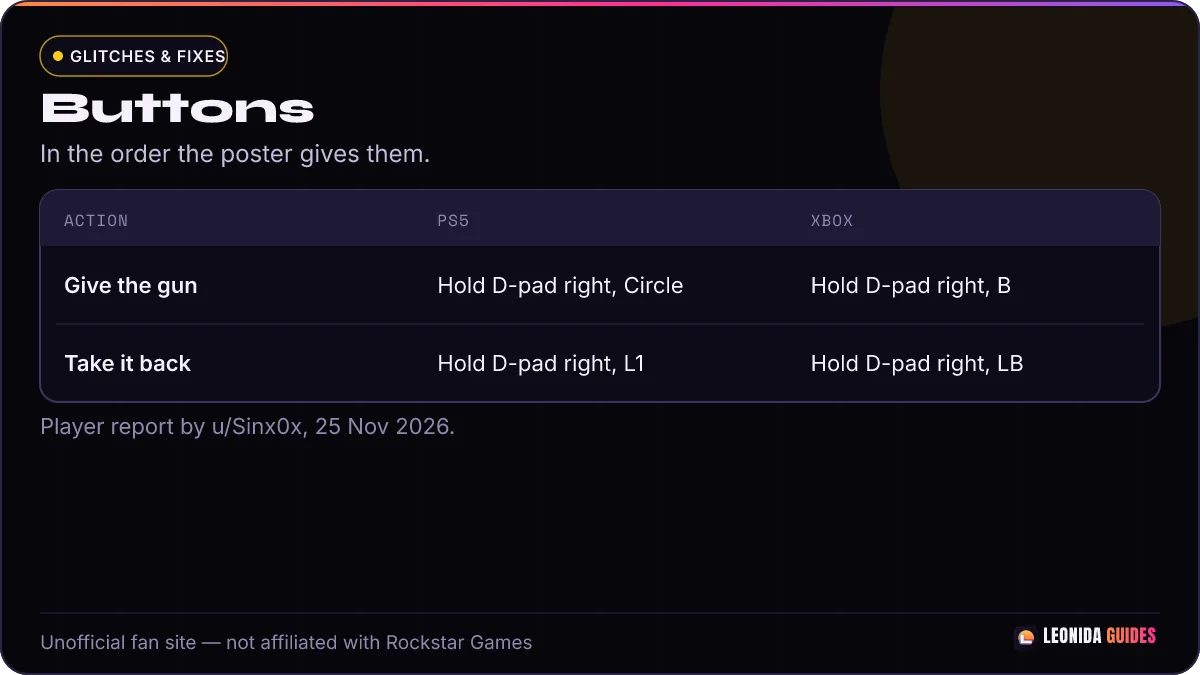
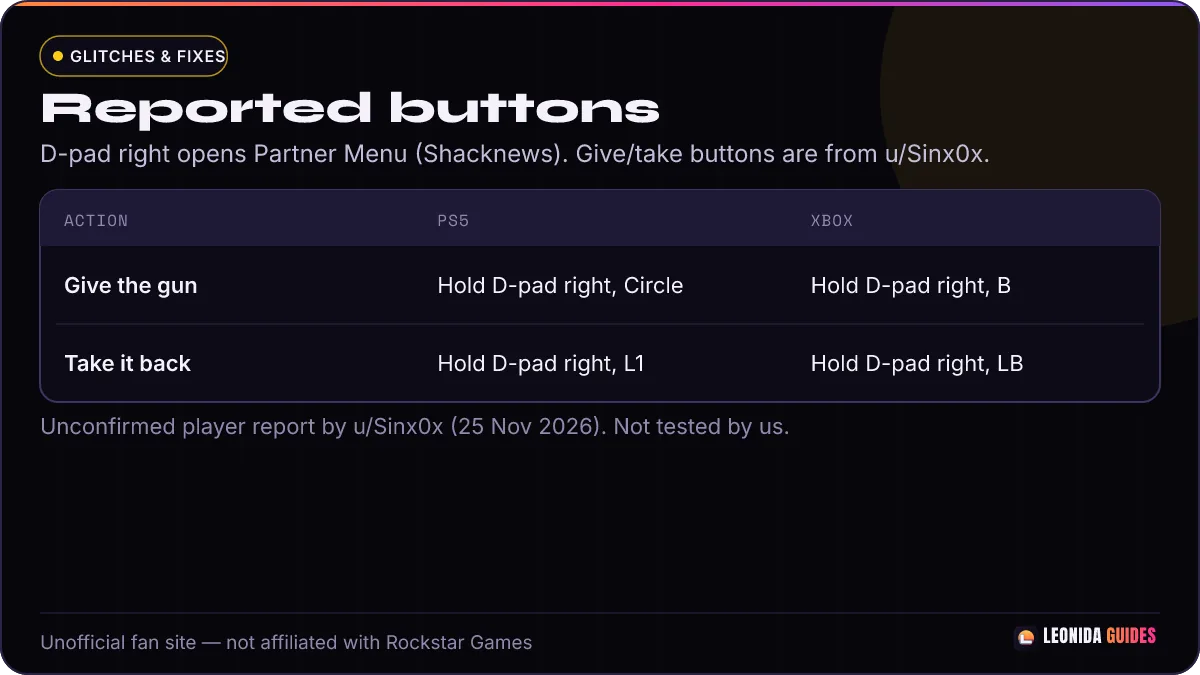
content: auto-publish 2026-11-25T20:44:59.759Z

Changed region(s): [[0.0308, 0.1244, 0.555, 0.1867], [0.0308, 0.2178, 0.8325, 0.2489], [0.0308, 0.6222, 0.6475, 0.6533]]

diff --git a/content/gta-6-ammo-refill-glitch.md b/content/gta-6-ammo-refill-glitch.md
@@ -5,9 +5,26 @@ title_alts:
   - "GTA 6 Out of Ammo? Quick Refill Trick for PS5 and Xbox"
 slug: gta-6-ammo-refill-glitch
 category: glitches
-description: "GTA 6 ammo glitch: hand your gun to your partner and take it back to refill the magazine. Buttons for PS5 and Xbox, limits and status."
+description: "GTA 6 ammo refill trick explained: one player report, source disagreements on handing over guns, and confirmed ways to get ammo on PS5 and Xbox."
 sources:
   - https://www.reddit.com/r/gtaglitches/comments/1y4y7gj/gta_6_infiniteish_ammo_glitch/
+  - https://www.shacknews.com/article/151396/gta6-ps5-controls
+  - https://www.shacknews.com/article/151419/gta6-xbox-controls
+  - https://www.gamesradar.com/games/grand-theft-auto/gta-6-switch-characters-command/
+  - https://www.powerpyx.com/gta-6-how-to-hand-items-to-your-partner/
+  - https://gta6walk.com/guides/how-to-hand-items-to-your-partner/
+  - https://gta.tech4gamers.com/gta-6/guides/shared-weapons-jason-lucia/
+  - https://www.invenglobal.com/articles/28810/13-tips-i-wish-i-knew-before-starting-gta-6
+  - https://www.gamesradar.com/games/grand-theft-auto/gta-6-manage-loadout/
+  - https://www.gamesradar.com/games/grand-theft-auto/gta-6-weapon-ownership-explained/
+  - https://www.gamespot.com/articles/how-to-increase-your-inventory-in-gta-6/
+  - https://www.powerpyx.com/gta-6-tips-tricks/
+  - https://www.dexerto.com/wikis/gta-6/equipment/ammo-pack/
+  - https://www.dexerto.com/wikis/gta-6/equipment/ammo/
+  - https://www.gamesradar.com/games/grand-theft-auto/gta-6-weapons/
+  - https://www.gamespot.com/articles/gta-6-all-the-secret-controls-and-gameplay-features-you-might-have-missed/
+  - https://www.gamespot.com/articles/all-gta-6-cheats-and-how-to-unlock-them/
+  - https://www.pcgamer.com/games/grand-theft-auto/gta-6-cheats-list/
 updated: 2026-11-25
 published: 2026-11-25
 status: live
@@ -18,69 +35,125 @@ qa: live-review
 
 # GTA 6 Ammo Glitch: Refill Your Magazine With Your Partner
 
-> - **Quick answer:** give the gun you are low on to your partner, then take it back. A player reports the **magazine comes back full** (u/Sinx0x on r/gtaglitches).
-> - **Limit:** the same player says it refills **only the current magazine**, not your spare ammo. It works best with big-magazine guns like LMGs. Grenade launchers cannot be handed over.
-> - **Status: unconfirmed (checked 2026-11-25).** One player report from 25 Nov. Not tested by us.
+> - **Quick answer — Unconfirmed: one player report so far.** One player ([u/Sinx0x on r/gtaglitches](https://www.reddit.com/r/gtaglitches/comments/1y4y7gj/gta_6_infiniteish_ammo_glitch/)) claims that handing a gun to your partner and taking it back refills the **loaded magazine**, not spare ammo. No major gaming site or Rockstar confirms this glitch.
+> - **Sources disagree on handing over guns:** [PowerPyx](https://www.powerpyx.com/gta-6-how-to-hand-items-to-your-partner/) says only **longarms** (assault rifles, shotguns) and stash bags can be handed over, [GamesRadar+](https://www.gamesradar.com/games/grand-theft-auto/gta-6-switch-characters-command/) says weapons can be handed over, and [Tech4Gamers](https://gta.tech4gamers.com/gta-6/guides/shared-weapons-jason-lucia/) says **no weapons** can be handed over at all.
+> - **Confirmed ways to get ammo:** buy ammo or a **$950 Ammo Pack** at **Ammu-Nation** ([PowerPyx](https://www.powerpyx.com/gta-6-tips-tricks/), [Dexerto](https://www.dexerto.com/wikis/gta-6/equipment/ammo-pack/)), check your **Personal Vehicle trunk**, or switch characters since Jason and Lucia hold separate ammo ([Inven Global](https://www.invenglobal.com/articles/28810/13-tips-i-wish-i-knew-before-starting-gta-6)).
 
-**Words used on this page.** *Magazine* (or mag) is the ammo loaded in the gun right now. *Spare ammo* is the extra ammo you carry. *Partner* is the other main character, Jason or Lucia, when they are with you. *LMG* is a light machine gun, a gun with a very big magazine.
+> **Unconfirmed: one player report so far.** This ammo trick comes from a single Reddit thread ([u/Sinx0x on r/gtaglitches](https://www.reddit.com/r/gtaglitches/comments/1y4y7gj/gta_6_infiniteish_ammo_glitch/)) posted on 25 Nov 2026. No major outlet or Rockstar has confirmed it, and **not tested by us**.
 
-*Story mode, PS5 and Xbox. No mods or PC tools. This is a player tip, not a confirmed fact.*
+**Words used on this page.** *Magazine* (or mag) is the ammo loaded inside the gun right now. *Spare ammo* is the extra ammo you carry in your pockets. *Partner* is the other main character, Jason or Lucia, when they are with you. *Longarm* (or long gun) is a big gun like an assault rifle, shotgun, or LMG. *LMG* is a light machine gun, a heavy gun with a very big magazine. *Sidearm* is a small gun like a pistol or revolver.
 
-## What you need
+*Story mode, PS5 and Xbox. No mods or PC tools.*
 
-| What | Detail | Source |
+## What you need (and where sources disagree)
+
+| What | What sources say | Source |
 |---|---|---|
-| Your partner next to you | The trick needs them, even though it is a solo glitch | u/Sinx0x |
-| A gun you can hand over | Grenade launchers do not work | u/Sinx0x |
-| Time | Two quick menu actions: give, then take back | u/Sinx0x |
+| Your partner next to you | Free switching and full partner commands unlock in Chapter 2 | [GamesRadar+](https://www.gamesradar.com/games/grand-theft-auto/gta-6-switch-characters-command/) |
+| Partner Menu button | **Hold right on the D-pad** opens the Partner Menu on PS5 and Xbox | [Shacknews PS5](https://www.shacknews.com/article/151396/gta6-ps5-controls), [Shacknews Xbox](https://www.shacknews.com/article/151419/gta6-xbox-controls) |
+| A gun you can hand over | **Disputed** — see the disagreement below; pistols, SMGs, and grenade launchers do not work | [PowerPyx](https://www.powerpyx.com/gta-6-how-to-hand-items-to-your-partner/), [Tech4Gamers](https://gta.tech4gamers.com/gta-6/guides/shared-weapons-jason-lucia/), [u/Sinx0x](https://www.reddit.com/r/gtaglitches/comments/1y4y7gj/gta_6_infiniteish_ammo_glitch/) |
+| Give and take-back inputs | **Circle / B** to give and **L1 / LB** to take back come from one Reddit post (guide sites also list Circle / B to hand over) | [u/Sinx0x](https://www.reddit.com/r/gtaglitches/comments/1y4y7gj/gta_6_infiniteish_ammo_glitch/), [gta6walk](https://gta6walk.com/guides/how-to-hand-items-to-your-partner/) |
 
-![Our diagram of the refill loop: give the gun, take it back, full magazine. Not a game screenshot.](TODO: image:gta-6-ammo-refill-glitch-step-1 — diagram, our own art: three step cards, give gun, take it back, magazine full)
-*Caption: Diagram. Give the gun to your partner, take it back, and the magazine is full.*
+### Which guns can actually be handed over?
 
-## How to do the ammo glitch
+Sources do not agree on whether you can hand a gun to your partner at all, or which guns count:
 
-1. Stand next to your partner.
-2. Pick the gun that is low on ammo.
-3. **Hold right on the D-pad**, then press **Circle** (PS5) or **B** (Xbox) to give the gun to your partner.
-4. **Hold right on the D-pad again**, then press **L1** (PS5) or **LB** (Xbox) to take it back.
-5. Check your ammo. The poster says the gun comes back with a **full magazine**.
+- **[GamesRadar+](https://www.gamesradar.com/games/grand-theft-auto/gta-6-switch-characters-command/)** says you can hold right on the D-pad during a robbery to hand over weapons or stash bags to your partner, without naming a weapon-type limit.
+- **[PowerPyx](https://www.powerpyx.com/gta-6-how-to-hand-items-to-your-partner/)** (echoed by guide site [gta6walk](https://gta6walk.com/guides/how-to-hand-items-to-your-partner/)) says you can only hand over **stash bags** and **longarms** (such as assault rifles and shotguns). **Pistols, revolvers, SMGs, and equipment cannot be handed over.**
+- **[Tech4Gamers](https://gta.tech4gamers.com/gta-6/guides/shared-weapons-jason-lucia/)** disagrees with both and says **weapons and equipment cannot be handed over at all** — only stash bags can pass between Jason and Lucia.
+- **[u/Sinx0x](https://www.reddit.com/r/gtaglitches/comments/1y4y7gj/gta_6_infiniteish_ammo_glitch/)** says they used an **LMG** (a heavy longarm) for the refill trick, and added in comments that **grenade launchers cannot be handed over**.
 
-The buttons are in the order the poster gives them. If your menu shows other options, pick the ones for giving and taking a weapon.
+![Our diagram of the reported GTA 6 ammo refill trick: give a long gun to your partner, take it back, and the poster says the magazine refills. Unconfirmed. Not a game screenshot.](TODO: image:gta-6-ammo-refill-glitch-step-1 — diagram, our own art: three step cards, reported refill loop)
+*Caption: Diagram. What the original poster says happens when you hand over a long gun and take it back. Unconfirmed.*
 
-![Our diagram of the buttons: D-pad right, then Circle or B to give, then D-pad right and L1 or LB to take back. Not a game screenshot.](TODO: image:gta-6-ammo-refill-glitch-step-2 — diagram, our own art: compare table of PS5 and Xbox buttons for give and take back)
-*Caption: Diagram. The give and take-back buttons on PS5 and Xbox.*
+## What the original poster says they did
 
-## Limits
+These steps are **what the original poster says they did** on [r/gtaglitches](https://www.reddit.com/r/gtaglitches/comments/1y4y7gj/gta_6_infiniteish_ammo_glitch/). Only the **Hold right on the D-pad** Partner Menu input is backed by major outlets ([Shacknews](https://www.shacknews.com/article/151396/gta6-ps5-controls), [GamesRadar+](https://www.gamesradar.com/games/grand-theft-auto/gta-6-switch-characters-command/)). The give and take-back button steps below come from u/Sinx0x's report (with [gta6walk](https://gta6walk.com/guides/how-to-hand-items-to-your-partner/) also listing Circle / B for Hand Over) and are **not tested by us**.
 
-- **Only the magazine.** In a follow-up comment the poster says it **does not restore spare ammo**, only the loaded magazine.
-- **Use big magazines.** The poster says this makes LMGs the best choice. A silenced LMG is the example they give.
-- **Explosive weapons.** The poster first said these refill too, then said grenade launchers do not work, because you cannot give them to your partner.
+1. Unlock free character switching in Chapter 2 ([GamesRadar+](https://www.gamesradar.com/games/grand-theft-auto/gta-6-switch-characters-command/)).
+2. Stand next to your partner.
+3. Equip a **longarm** that is low on ammo (PowerPyx says small guns like pistols and SMGs will not hand over, and Tech4Gamers says no weapons hand over at all).
+4. **Hold right on the D-pad** to open the Partner Menu ([Shacknews](https://www.shacknews.com/article/151396/gta6-ps5-controls)).
+5. Press **Circle** (PS5) or **B** (Xbox) if a give option shows — u/Sinx0x says this gives the gun to your partner.
+6. **Hold right on the D-pad** again to reopen the Partner Menu.
+7. Press **L1** (PS5) or **LB** (Xbox) — u/Sinx0x says this takes the gun back.
+8. Check your ammo counter. If the trick works in your game, the poster says the **loaded magazine** comes back full.
 
-![Our diagram of what works: big-magazine guns yes, spare ammo no, grenade launchers no. Not a game screenshot.](TODO: image:gta-6-ammo-refill-glitch-step-3 — diagram, our own art: three info cards, what refills and what does not)
-*Caption: Diagram. What the trick refills, and what it does not.*
+If your screen shows different prompts in the Partner Menu, follow the on-screen labels for giving and taking back rather than pressing buttons blindly.
+
+![Table of reported buttons for the GTA 6 ammo trick: hold D-pad right for the Partner Menu (Shacknews), then Circle or B to give and D-pad right with L1 or LB to take back (u/Sinx0x).](TODO: image:gta-6-ammo-refill-glitch-step-2 — diagram, our own art: compare table of reported PS5 and Xbox buttons)
+*Caption: Diagram. D-pad right opens the Partner Menu (Shacknews); the give and take-back buttons are from u/Sinx0x's unconfirmed report.*
+
+## Reported limits and caveats
+
+- **Only the magazine (poster's follow-up):** In comments on their [Reddit thread](https://www.reddit.com/r/gtaglitches/comments/1y4y7gj/gta_6_infiniteish_ammo_glitch/), u/Sinx0x says the trick **does not restore spare ammo**, only the bullets loaded in the current magazine.
+- **Big magazines matter:** Because only the magazine refills, u/Sinx0x says it is most useful on guns with huge magazines, such as a silenced LMG.
+- **Many weapons cannot be handed over:** u/Sinx0x corrected their first claim and said **grenade launchers** cannot be handed over. [PowerPyx](https://www.powerpyx.com/gta-6-how-to-hand-items-to-your-partner/) adds that **pistols, revolvers, SMGs, and equipment** cannot be handed over either, and [Tech4Gamers](https://gta.tech4gamers.com/gta-6/guides/shared-weapons-jason-lucia/) says no guns can be handed over.
+- **Not confirmed or tested:** No major outlet has reproduced this glitch, and we have not tested it ourselves.
+
+![Our diagram of reported limits and source disagreements: loaded magazine refills per one player, spare ammo does not, long guns are disputed, and small guns or grenade launchers cannot be handed over. Not a game screenshot.](TODO: image:gta-6-ammo-refill-glitch-step-3 — diagram, our own art: three info cards on limits and source disagreements)
+*Caption: Diagram. Reported limits from u/Sinx0x alongside the source disagreement on which guns can be handed over.*
+
+## How the ammo system works in GTA 6
+
+If you are running out of bullets often, it helps to know how GTA 6 splits weapons and ammo between your two characters:
+
+- **Jason and Lucia have separate ammo pools.** [Inven Global](https://www.invenglobal.com/articles/28810/13-tips-i-wish-i-knew-before-starting-gta-6) reports that when one character buys a gun at Ammu-Nation, both characters unlock a copy of that gun, and [GamesRadar+](https://www.gamesradar.com/games/grand-theft-auto/gta-6-weapon-ownership-explained/) says the same is true for Unique Weapon Variants. However, **ammo, healing items, weapon attachments, and equipped loadouts are kept separately** (Inven Global, GamesRadar+). Swapping to your partner can suddenly leave you low on ammo if you have not stocked them up too.
+- **You carry a strict set of weapons on you.** [GamesRadar+](https://www.gamesradar.com/games/grand-theft-auto/gta-6-manage-loadout/) lists your on-person Weapons slots as **2 sidearms, 2 longarms, 1 melee weapon, 1 explosives slot, 1 equipment slot, and 1 hands slot**. [GameSpot](https://www.gamespot.com/articles/how-to-increase-your-inventory-in-gta-6/) confirms there is **no backpack or inventory upgrade** to carry more.
+- **Owned guns stay safe; picked-up guns can be lost.** [GamesRadar+](https://www.gamesradar.com/games/grand-theft-auto/gta-6-weapon-ownership-explained/) explains that guns you buy at Ammu-Nation, receive in missions, or unlock as Unique Variants can always be recovered from your Personal Vehicle's trunk or an Ammu-Nation weapons locker. Unowned weapons picked up from enemies or the ground are lost if you drop them, get Wasted, or get Busted.
+
+## Confirmed ways to get ammo
+
+Instead of relying on an unverified glitch, these confirmed methods keep your guns fed:
+
+| Method | How it works | Source |
+|---|---|---|
+| Buy ammo at Ammu-Nation | Visit any gun store to buy firearm ammo and explosive charges; **Expanded Inventory** stores carry the widest range (store tiers: Everyday, Premium, Hunting, Pawn) | [PowerPyx](https://www.powerpyx.com/gta-6-tips-tricks/), [GamesRadar+](https://www.gamesradar.com/games/grand-theft-auto/gta-6-weapons/) |
+| Buy an **Ammo Pack ($950)** | Refills all standard firearm ammo types (pistol, revolver, SMG, shotgun, assault rifle, tactical rifle, small-game rifle, sniper rifle, and machine gun); listed at Big Shots and Chuck's Tackle & Shot | [Dexerto Ammo Pack](https://www.dexerto.com/wikis/gta-6/equipment/ammo-pack/), [Dexerto Ammo](https://www.dexerto.com/wikis/gta-6/equipment/ammo/) |
+| Check your **car trunk** | Walk to the back of your Personal Vehicle, press **Triangle / Y** to open the trunk, and hold **L1 / LB** to swap weapons or grab stored gear (see [GTA 6 car trunk storage](/cars/gta-6-car-trunk-storage/)) | [GamesRadar+](https://www.gamesradar.com/games/grand-theft-auto/gta-6-manage-loadout/), [GameSpot](https://www.gamespot.com/articles/how-to-increase-your-inventory-in-gta-6/) |
+| Empty mid-fight options | Press **Square (PS5) / X (Xbox)** to pistol-whip with an empty gun, or tap **Triangle / Y** while aiming to quick-swap to another weapon | [GameSpot](https://www.gamespot.com/articles/gta-6-all-the-secret-controls-and-gameplay-features-you-might-have-missed/) |
+| Post-story **ammo cheats** | After finishing the main story, shooting-range medal challenges unlock **Max Ammo**, **Infinite Ammo**, and **No Reload** — but cheats **disable saving and trophies/achievements** for that session | [GameSpot](https://www.gamespot.com/articles/all-gta-6-cheats-and-how-to-unlock-them/), [PC Gamer](https://www.pcgamer.com/games/grand-theft-auto/gta-6-cheats-list/) |
+
+## What to do if the glitch does not work
+
+Because only one player has reported this trick and sources disagree on weapon hand-overs, it may not work in your game. Try these steps instead:
+
+- **Make sure partner commands are unlocked and your partner is nearby.** [GamesRadar+](https://www.gamesradar.com/games/grand-theft-auto/gta-6-switch-characters-command/) says free character switching unlocks during **Chapter 2**. If your partner is not next to you, **hold right on the D-pad** and press **Triangle (PS5) / Y (Xbox)** to call them over.
+- **Check what kind of gun you are holding.** If you are holding a pistol, revolver, SMG, or grenade launcher, [PowerPyx](https://www.powerpyx.com/gta-6-how-to-hand-items-to-your-partner/) and [u/Sinx0x](https://www.reddit.com/r/gtaglitches/comments/1y4y7gj/gta_6_infiniteish_ammo_glitch/) say those cannot be handed over. If no gun gives you a hand-over option at all, [Tech4Gamers](https://gta.tech4gamers.com/gta-6/guides/shared-weapons-jason-lucia/) may be right for your version or situation — only stash bags pass across.
+- **Switch to your other character for a shootout.** Since Jason and Lucia keep separate ammo ([Inven Global](https://www.invenglobal.com/articles/28810/13-tips-i-wish-i-knew-before-starting-gta-6)), holding **right on the D-pad** and pressing **R1 (PS5) / RB (Xbox)** lets you switch to the character who still has bullets ([GamesRadar+](https://www.gamesradar.com/games/grand-theft-auto/gta-6-switch-characters-command/)).
+- **Swap guns at your car trunk or visit Ammu-Nation.** Open your Personal Vehicle trunk with **Triangle / Y** and hold **L1 / LB** to switch to a different owned longarm or grab stored gear ([GamesRadar+](https://www.gamesradar.com/games/grand-theft-auto/gta-6-manage-loadout/)), or head to the nearest Ammu-Nation to buy ammo or an Ammo Pack ([PowerPyx](https://www.powerpyx.com/gta-6-tips-tricks/), [Dexerto](https://www.dexerto.com/wikis/gta-6/equipment/ammo-pack/)).
 
 ## FAQ
 
-### Is there an infinite ammo glitch in GTA 6?
-Not fully. A player reports that handing a gun to your partner and taking it back refills the magazine, but not your spare ammo.
+### Is there a confirmed infinite ammo glitch in GTA 6?
+No. As of 25 Nov 2026, no major gaming site or Rockstar confirms an ammo glitch. One player ([u/Sinx0x on r/gtaglitches](https://www.reddit.com/r/gtaglitches/comments/1y4y7gj/gta_6_infiniteish_ammo_glitch/)) reported a partner hand-over trick that refills the loaded magazine only, not spare ammo.
 
-### Does it work with grenade launchers?
-No. The poster says you cannot give a grenade launcher to your partner.
+### Can you hand guns to your partner in GTA 6?
+Sources disagree. [GamesRadar+](https://www.gamesradar.com/games/grand-theft-auto/gta-6-switch-characters-command/) says you can hand over weapons and stash bags, [PowerPyx](https://www.powerpyx.com/gta-6-how-to-hand-items-to-your-partner/) says only longarms (assault rifles, shotguns) and stash bags can be handed over (not pistols, revolvers, SMGs, or equipment), and [Tech4Gamers](https://gta.tech4gamers.com/gta-6/guides/shared-weapons-jason-lucia/) says no weapons can be handed over at all.
+
+### Does the reported glitch work with grenade launchers, pistols, or SMGs?
+No. [u/Sinx0x](https://www.reddit.com/r/gtaglitches/comments/1y4y7gj/gta_6_infiniteish_ammo_glitch/) says grenade launchers cannot be handed over, and [PowerPyx](https://www.powerpyx.com/gta-6-how-to-hand-items-to-your-partner/) says pistols, revolvers, SMGs, and equipment cannot be handed over either.
+
+### What is the fastest confirmed way to refill ammo?
+Visit an **Ammu-Nation** gun store to buy ammo ([PowerPyx](https://www.powerpyx.com/gta-6-tips-tricks/)), or buy a **$950 Ammo Pack** at Big Shots or Chuck's Tackle & Shot to refill all standard firearm ammo types ([Dexerto](https://www.dexerto.com/wikis/gta-6/equipment/ammo-pack/)). After you finish the main story, you can also unlock official ammo cheats via shooting-range medals, though cheats turn off saving and trophies ([GameSpot](https://www.gamespot.com/articles/all-gta-6-cheats-and-how-to-unlock-them/), [PC Gamer](https://www.pcgamer.com/games/grand-theft-auto/gta-6-cheats-list/)).
 
 ### Is it patched?
-Unconfirmed. It was posted on 25 Nov 2026, after update 01.002.002.
+Unconfirmed. The Reddit report was posted on 25 Nov 2026, after update 01.002.002, and has not been confirmed or tested by us.
 
-## Credits
+## Credits and sources
 
-Found by u/Sinx0x on r/gtaglitches ([post](https://www.reddit.com/r/gtaglitches/comments/1y4y7gj/gta_6_infiniteish_ammo_glitch/)), including the follow-up comments on limits.
+- Player report: [u/Sinx0x on r/gtaglitches](https://www.reddit.com/r/gtaglitches/comments/1y4y7gj/gta_6_infiniteish_ammo_glitch/) (glitch claim, follow-up comments on magazine-only and grenade launchers, and reported give/take-back button steps).
+- Controls and partner hand-overs: [Shacknews PS5 controls](https://www.shacknews.com/article/151396/gta6-ps5-controls), [Shacknews Xbox controls](https://www.shacknews.com/article/151419/gta6-xbox-controls), [GamesRadar+ partner guide](https://www.gamesradar.com/games/grand-theft-auto/gta-6-switch-characters-command/), [PowerPyx partner items guide](https://www.powerpyx.com/gta-6-how-to-hand-items-to-your-partner/), [gta6walk partner guide](https://gta6walk.com/guides/how-to-hand-items-to-your-partner/), and [Tech4Gamers shared weapons guide](https://gta.tech4gamers.com/gta-6/guides/shared-weapons-jason-lucia/).
+- Ammo, loadout, and combat backups: [Inven Global 13 tips](https://www.invenglobal.com/articles/28810/13-tips-i-wish-i-knew-before-starting-gta-6), [GamesRadar+ loadout guide](https://www.gamesradar.com/games/grand-theft-auto/gta-6-manage-loadout/), [GamesRadar+ weapon ownership](https://www.gamesradar.com/games/grand-theft-auto/gta-6-weapon-ownership-explained/), [GamesRadar+ all weapons](https://www.gamesradar.com/games/grand-theft-auto/gta-6-weapons/), [GameSpot inventory guide](https://www.gamespot.com/articles/how-to-increase-your-inventory-in-gta-6/), [PowerPyx tips and tricks](https://www.powerpyx.com/gta-6-tips-tricks/), [Dexerto Ammo Pack](https://www.dexerto.com/wikis/gta-6/equipment/ammo-pack/), [Dexerto Ammo types](https://www.dexerto.com/wikis/gta-6/equipment/ammo/), [GameSpot secret controls](https://www.gamespot.com/articles/gta-6-all-the-secret-controls-and-gameplay-features-you-might-have-missed/), [GameSpot cheats](https://www.gamespot.com/articles/all-gta-6-cheats-and-how-to-unlock-them/), and [PC Gamer cheats](https://www.pcgamer.com/games/grand-theft-auto/gta-6-cheats-list/).
 
-Related: [GTA 6 money glitch](/money/gta-6-money-glitch/) · [GTA 6 controls](/beginner-tips/gta-6-controls/) · [GTA 6 how to lose the cops](/beginner-tips/gta-6-how-to-lose-the-cops/)
+Related: [GTA 6 money glitch](/money/gta-6-money-glitch/) · [GTA 6 controls](/beginner-tips/gta-6-controls/) · [GTA 6 car trunk storage](/cars/gta-6-car-trunk-storage/) · [GTA 6 how to lose the cops](/beginner-tips/gta-6-how-to-lose-the-cops/)
 
 ## Updated
 
 | Date | What changed |
 |---|---|
 | 2026-11-25 | Page created from u/Sinx0x's post and comments. Not tested by us. |
+| 2026-11-25 (21:34 CET) | After QA: added top unconfirmed banner and Quick answer notice, backed Partner Menu input with Shacknews and GamesRadar+, stated source disagreements on handing over guns (PowerPyx, GamesRadar+, Tech4Gamers, gta6walk, u/Sinx0x), framed steps cautiously as the poster's account, and added sourced ammo system, confirmed ammo methods, and fallback steps. Updated all 3 diagram images to match. |
 
 ---
 *Unofficial fan site, not affiliated with Rockstar Games or Take-Two.*

diff --git a/content/gta-6-money-glitch.md b/content/gta-6-money-glitch.md
@@ -12,7 +12,9 @@ sources:
   - https://www.reddit.com/r/gtaglitches/comments/1y1gou5/gta_6_unlimited_money_red_barn_apollo_aggregates/
   - https://www.reddit.com/r/gtaglitches/comments/1y3y1ny/gta_6_infinite_money_glitch_optimised/
   - https://www.reddit.com/r/gtaglitches/comments/1y4gvl1/gta_6_working_glitches_thread/
-  - https://rockstarintel.com/new-gta-vi-update-01-002-002-patch-notes-released/
+  - https://support.rockstargames.com/articles/sN5pEdFYZdlvijKXd6xpJ/grand-theft-auto-vi-launch-updates-ps5-xbox-series-x-or-s
+  - https://www.videogameschronicle.com/news/grand-theft-auto-6-has-received-a-new-patch-which-fixes-autosaving/
+  - https://www.polygon.com/gta-6-update-today-ver-01002002-where-is-ps5-xbox-download-size-patch-notes/
 updated: 2026-11-25
 published: 2026-11-25
 status: live
@@ -25,7 +27,7 @@ qa: live-review
 
 > - **Quick answer:** at the **Apollo Aggregates** warehouse east of Hamlet, the drugs in two vans **come back** each time you switch to your other character and straight back. Bag them, store them in a van, sell them (GameSpot, r/gtaglitches).
 > - **What it pays:** GameSpot counts **$1,200 per pack** and **about $254,400** for one full run (two vans plus four carried bags) in **10 to 15 minutes**.
-> - **Status: working (checked 2026-11-25).** GameSpot tested it on 23 Nov, and players report it still works after update 01.002.002. Not tested by us. Any patch can end it.
+> - **Status: working (checked 2026-11-25).** GameSpot's guide (published 23 Nov, US time). u/lilsteve68 says it still worked after they updated. Not tested by us. Any patch can end it.
 
 **Words used on this page.** A *glitch* is a bug you can use on purpose. *Respawn* means items come back after you take them. *Stash bag* is the bag your loot goes into. A *fence* is a person who buys stolen goods. *Switching* means changing between Jason and Lucia. *Personal vehicle* is a car you registered, so you can call it with the ScooterBros app.
 
@@ -48,7 +50,7 @@ qa: live-review
 ## Before you start
 
 1. **Play into Chapter 3 first if you can.** You can do it from Chapter 1, but GameSpot says the best buyer for drugs only opens in Chapter 3.
-2. **Bank wisely in Chapter 1.** Players in the original thread say only money in your **BuckMe savings** account carries over when Chapter 2 starts. Cash and your normal BuckMe account are emptied.
+2. **Bank wisely in Chapter 1.** When Chapter 2 starts, the original post says only money in your **BuckMe** account carries over. Two players in that thread, [u/Wild_Bee_3953](https://www.reddit.com/r/gtaglitches/comments/1y1gou5/gta_6_unlimited_money_red_barn_apollo_aggregates/19sxyd6b8ak03/) and [u/BringingFire](https://www.reddit.com/r/gtaglitches/comments/1y1gou5/gta_6_unlimited_money_red_barn_apollo_aggregates/19sxz30gm4r0g/), say it is only money in your **BuckMe savings** account, and that cash and your normal BuckMe account are emptied. These are player reports. We have not found a major outlet that confirms either version.
 3. **Register a 10-slot van** as a personal vehicle (optional, but it doubles the haul). GameSpot names the Burrito '98, Boxville, Rumpo and Shifter. You need a free garage slot.
 4. **Send your partner away.** Tell them to **split up**. The switch only respawns the loot if your other character is far away (GameSpot).
 
@@ -60,7 +62,7 @@ GameSpot says **Tyrone**, a fence in Vice City you meet in Chapter 3, pays a hig
 
 1. Go to the warehouse. Set a waypoint and use the **RydeMe** app to get there fast (GameSpot).
 2. Open the back of the **teddy bear van outside** and take its **3 packs**.
-3. Go inside. Take the **3 packs** in the second teddy bear van. On your first visit there is also a safe and marked money (GameSpot).
+3. Go inside. Take the **3 packs** in the second teddy bear van. On your first visit there is also a safe ([u/InertiaGTA's post](https://www.reddit.com/r/gtaglitches/comments/1y1gou5/gta_6_unlimited_money_red_barn_apollo_aggregates/)) and marked money, bodies and a collectible card (GameSpot).
 4. Stand **outside** the warehouse.
 5. **Switch** to your other character, then **switch straight back** (GameSpot).
 6. The 6 packs are back in the vans. Take them again.
@@ -70,7 +72,7 @@ GameSpot says **Tyrone**, a fence in Vice City you meet in Chapter 3, pays a hig
 
 **Do not move the teddy bear vans.** A player in the original thread says the loot stopped coming back after they drove one outside.
 
-**No switch?** The original poster's other trigger: **Save Game**, then **Load Game** on the same save, and drive back. Several players say driving **about 0.3 to 0.5 miles** away and back also works.
+**No switch?** The original poster's other trigger: **Save Game**, then **Load Game** on the same save, and drive back. Players also say the loot comes back if you drive toward the Vapid dealership and loop back ([u/densestport](https://www.reddit.com/r/gtaglitches/comments/1y1gou5/gta_6_unlimited_money_red_barn_apollo_aggregates/19syaihj1i20w/)), or drive away for 15-20 seconds ([u/JR3456](https://www.reddit.com/r/gtaglitches/comments/1y1gou5/gta_6_unlimited_money_red_barn_apollo_aggregates/19szkzbdvuu9u/)). Two players give a distance: [u/M4YON](https://www.reddit.com/r/gtaglitches/comments/1y1gou5/gta_6_unlimited_money_red_barn_apollo_aggregates/19t0utqw97a2t/) says about 0.32 miles; [u/LeatherSignature6293](https://www.reddit.com/r/gtaglitches/comments/1y3y1ny/gta_6_infinite_money_glitch_optimised/19t4afhtoxof4/) says 0.5 miles sometimes works and 0.3 miles can work too, but not every time.
 
 ![Our diagram of where the loot is: the van outside, the van inside, the plain van for storage. Not a game screenshot.](TODO: image:gta-6-money-glitch-step-2 — diagram, our own art: three boxes, which vans to loot and which to fill)
 *Caption: Diagram. Loot the two teddy bear vans. Store bags in a plain van.*
@@ -98,27 +100,27 @@ GameSpot's total: **20 bags in two vans plus 4 carried = about $254,400**, in **
 
 ## Problems and fixes
 
-- **Bag only holds about $3,200 to $4,000.** Early in the story your bags are smaller. A player tip from the original thread: stop adding drugs at **$2,800**, then open the safe. The bag then held **$4,000**.
+- **Bag only holds about $3,200 to $4,000.** [u/densestport](https://www.reddit.com/r/gtaglitches/comments/1y1gou5/gta_6_unlimited_money_red_barn_apollo_aggregates/19syaihj1i20w/) says if your bag limit is **$3,200**, stop adding drugs at **$2,800**, then open the safe. The bag then held **$4,000**.
 - **Your partner sells to the wrong fence.** u/lilsteve68 says to take them to the right fence **in person twice**. After that, they go there on their own.
 - **Payment says "pending".** GameSpot says this happens if your BuckMe credit limit is still low. Do more main missions. The money arrives later.
-- **Bags stow into your car on their own.** u/rdjh says to reload your save, drop the bags before you switch, then pick them up again.
+- **Bags stow into your car on their own.** [u/rdjh](https://www.reddit.com/r/gtaglitches/comments/1y3y1ny/gta_6_infinite_money_glitch_optimised/19t45ragkh7tw/) says to reload your save, drop the bags before you switch, then pick them up again.
 - **Loot does not come back.** Make sure your partner is far away, not next to you. Players say leaving the area further, or a save and load, fixes it.
 
 ## Is it patched?
 
 **Status: working (checked 2026-11-25).**
 
-- Rockstar's notes for update **01.002.002** (23 Nov) list seven fixes. None is this glitch (Rockstar Support, via RockstarINTEL). One of them fixes partners not handing over bags to sell to fences.
-- GameSpot tested the method on 23 Nov. The original poster and other players say it still works after the patch.
-- One player in the optimised post says the vans were gone the next day. We list it because it is the only report against.
+- [Rockstar Support's 23 Nov Launch Updates](https://support.rockstargames.com/articles/sN5pEdFYZdlvijKXd6xpJ/grand-theft-auto-vi-launch-updates-ps5-xbox-series-x-or-s) list seven fixes. None is this glitch. [VGC](https://www.videogameschronicle.com/news/grand-theft-auto-6-has-received-a-new-patch-which-fixes-autosaving/) and [Polygon](https://www.polygon.com/gta-6-update-today-ver-01002002-where-is-ps5-xbox-download-size-patch-notes/) report this list as update **01.002.002**. One of the seven fixes is partners not handing over bags to sell to fences.
+- GameSpot's guide (published 23 Nov, US time) does not give a test date and does not say it was tested after the patch. [u/lilsteve68](https://www.reddit.com/r/gtaglitches/comments/1y3y1ny/gta_6_infinite_money_glitch_optimised/19t3j0e2fgo9x/) says they "just tested it straight after I updated" and it still worked.
+- Some players report it failing. [u/Matrix-tk](https://www.reddit.com/r/gtaglitches/comments/1y1gou5/gta_6_unlimited_money_red_barn_apollo_aggregates/19t04izcvtzgl/) says the trucks were gone later in the story. [u/Initial_Branch954](https://www.reddit.com/r/gtaglitches/comments/1y3y1ny/gta_6_infinite_money_glitch_optimised/19t4ajx4aks82/) says payouts fell from $18k to $12k to $3.5k and they thought it was patched. [u/Blood_Soaked_Bat](https://www.reddit.com/r/gtaglitches/comments/1y3y1ny/gta_6_infinite_money_glitch_optimised/19t4mkvg3vg0z/) says the vans were gone the next day.
 
-Rockstar usually closes money glitches in a later patch. Sell often and bank your money.
+Sell often and bank your money.
 
 ## What players are saying
 
 *Public posts, quoted with a link. Player tips are not confirmed facts.*
 
-> "Just checked, and yes it still works." – u/DONTUSECAPSLOCK on Reddit, 23 Nov, after update 01.002.002 ([link](https://www.reddit.com/r/gtaglitches/comments/1y1gou5/gta_6_unlimited_money_red_barn_apollo_aggregates/))
+> "Not true, just tested it straight after I updated." – u/lilsteve68 on Reddit, 24 Nov, after they updated ([comment](https://www.reddit.com/r/gtaglitches/comments/1y3y1ny/gta_6_infinite_money_glitch_optimised/19t3j0e2fgo9x/))
 
 ## FAQ
 
@@ -129,7 +131,7 @@ At Apollo Aggregates, an abandoned red warehouse east of Hamlet in South Vice-Da
 GameSpot counts $1,200 per pack and about $254,400 for a full two-van run in 10 to 15 minutes.
 
 ### Is the GTA 6 money glitch patched?
-Not as of 25 Nov 2026. Update 01.002.002 does not mention it, and players report it still works.
+Not as of 25 Nov 2026. Update 01.002.002 does not mention it (Rockstar Support's seven fixes, reported as this update by VGC and Polygon), and u/lilsteve68 says it still worked after they updated. Some players report it failing. Not tested by us.
 
 ### Do I need mods or a PC?
 No. It is done in story mode on PS5 or Xbox with normal game actions.
@@ -139,7 +141,7 @@ We have found no statement from Rockstar about it. It is story mode, not online.
 
 ## Credits
 
-Method first posted by u/InertiaGTA on r/gtaglitches ([post](https://www.reddit.com/r/gtaglitches/comments/1y1gou5/gta_6_unlimited_money_red_barn_apollo_aggregates/)). Optimised route by u/lilsteve68 ([post](https://www.reddit.com/r/gtaglitches/comments/1y3y1ny/gta_6_infinite_money_glitch_optimised/)), with the multi-van upgrade by u/rdjh in its comments. Full step test and payouts: [GameSpot](https://www.gamespot.com/articles/gta-6-infinite-cash-money-cheat-exploit/). Patch notes: [RockstarINTEL](https://rockstarintel.com/new-gta-vi-update-01-002-002-patch-notes-released/).
+Method first posted by u/InertiaGTA on r/gtaglitches ([post](https://www.reddit.com/r/gtaglitches/comments/1y1gou5/gta_6_unlimited_money_red_barn_apollo_aggregates/)). Optimised route by u/lilsteve68 ([post](https://www.reddit.com/r/gtaglitches/comments/1y3y1ny/gta_6_infinite_money_glitch_optimised/)), with the multi-van upgrade by u/rdjh in its comments. Full step test and payouts: [GameSpot](https://www.gamespot.com/articles/gta-6-infinite-cash-money-cheat-exploit/). Patch notes: [Rockstar Support, Grand Theft Auto VI Launch Updates](https://support.rockstargames.com/articles/sN5pEdFYZdlvijKXd6xpJ/grand-theft-auto-vi-launch-updates-ps5-xbox-series-x-or-s) (23 Nov). [VGC](https://www.videogameschronicle.com/news/grand-theft-auto-6-has-received-a-new-patch-which-fixes-autosaving/) and [Polygon](https://www.polygon.com/gta-6-update-today-ver-01002002-where-is-ps5-xbox-download-size-patch-notes/) report the same list as update 01.002.002.
 
 Related: [GTA 6 fences and stash bags](/money/gta-6-fences-stash-bags/) · [GTA 6 how to make money fast](/money/gta-6-how-to-make-money-fast/) · [GTA 6 what to spend money on](/money/gta-6-what-to-spend-money-on/)
 
@@ -147,6 +149,7 @@ Related: [GTA 6 fences and stash bags](/money/gta-6-fences-stash-bags/) · [GTA 
 
 | Date | What changed |
 |---|---|
+| 2026-11-25 21:37 CET | Fixed sourcing and credits after SEARCH QA: named the right sources, stated disagreements, cited official patch notes, and added comment links. |
 | 2026-11-25 | Page created from GameSpot, r/gtaglitches posts and comments, and the 01.002.002 patch notes. Not tested by us. |
 
 ---

diff --git a/site-images/_slots-report.md b/site-images/_slots-report.md
@@ -2,7 +2,7 @@
 
 - content slots: 255
 - specs: 255
-- rendered this run: 6
+- rendered this run: 3
 - no-spec: 0
 - errors: 0
 - missing: none
